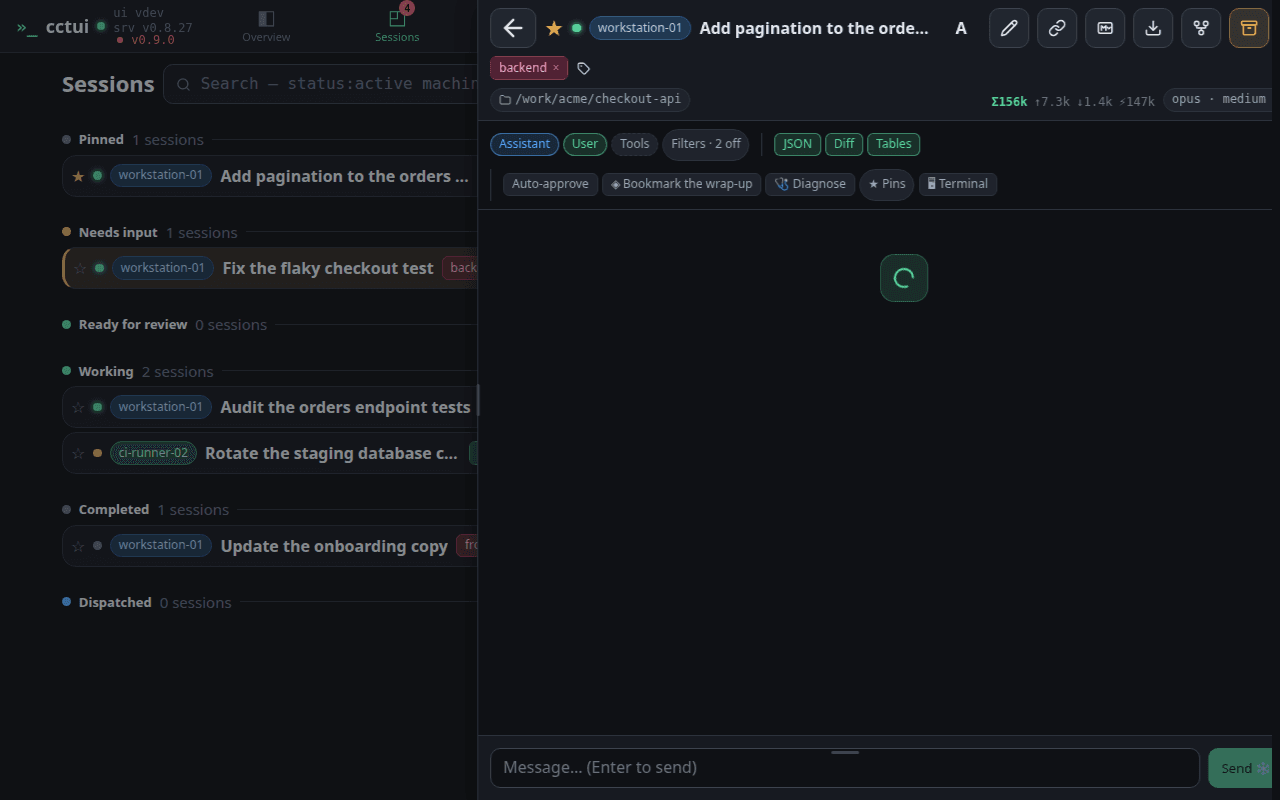
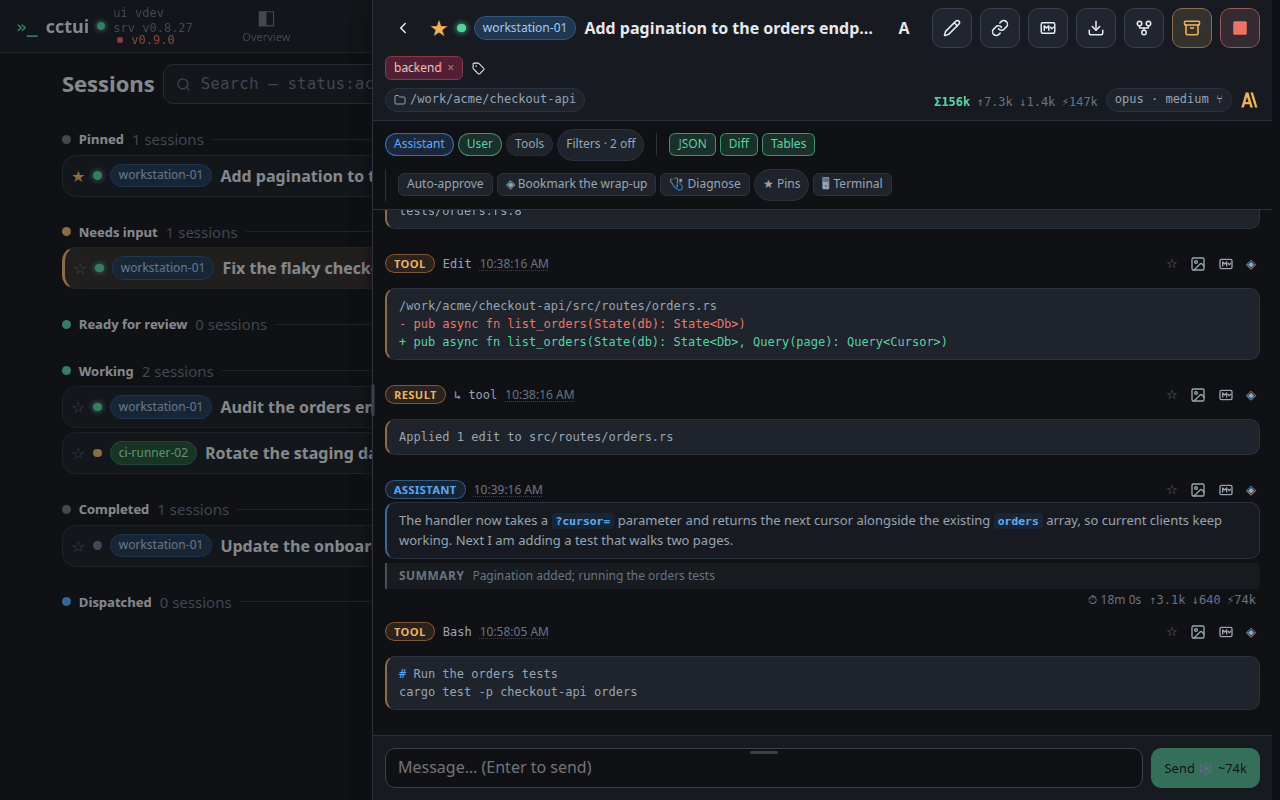
fix(drawer): the back control is a quiet chevron again, and the book stops shooting a half-open drawer
The header's back button rendered the kit's `back` glyph — a chevron plus a
horizontal shaft — at glyphSize 28 inside a chip box, making it the loudest
control in the bar. It is a plain `chevron-left` at the default glyph size
again, matching the neighbouring controls.

CCT-1015's clipping is not a layout bug: re-shooting the journey against
unmodified HEAD does not reproduce it. The drawer's panel is `right: 0` and
capped at 100vw, and at every viewport (1024/1280/1440) and drawer width
(default/800/700) the header and composer scrollWidth equals clientWidth, so
nothing overflows. The committed capture caught the panel mid `panel-slide-right`
(0.18s) with the transcript still loading. The journey's open step now waits on a
rendered line, which outlasts both, and the book is re-shot.

scripts/check-drawer-clipping.mjs asserts every interactive control in the drawer
header and composer sits inside the viewport across all nine configurations.

diff --git a/webui/src/lib/components/organisms/conversation/DrawerHeader.back.test.ts b/webui/src/lib/components/organisms/conversation/DrawerHeader.back.test.ts
@@ -1,0 +1,43 @@
+import { readFileSync } from 'node:fs';
+import { describe, expect, it } from 'vitest';
+
+const header = readFileSync(
+	'src/lib/components/organisms/conversation/DrawerHeader.svelte',
+	'utf8'
+);
+const registry = readFileSync(
+	'node_modules/@dorsk/tsumikit/dist/components/atoms/Icon.svelte',
+	'utf8'
+);
+
+const backButton = () => {
+	const i = header.indexOf('label={m.drawer_back()}');
+	expect(i).toBeGreaterThan(-1);
+	const start = header.lastIndexOf('<IconButton', i);
+	return header.slice(start, header.indexOf('/>', i) + 2);
+};
+
+const glyph = (name: string) => {
+	const m = registry.match(new RegExp(`(?:'${name}'|${name}):\\s*'([^']*)'`));
+	expect(m, `no "${name}" glyph in the kit registry`).toBeTruthy();
+	return (m as RegExpMatchArray)[1];
+};
+
+describe('drawer back control', () => {
+	it('uses the bare chevron, not the arrow', () => {
+		expect(backButton()).toContain('icon="chevron-left"');
+		expect(backButton()).not.toContain('icon="back"');
+	});
+
+	it('stays a quiet affordance — no chip box, no oversized glyph', () => {
+		const btn = backButton();
+		expect(btn).not.toContain('glyphSize');
+		expect(btn).not.toContain('chip');
+	});
+
+	it('the kit glyph it points at is a chevron with no arrow shaft', () => {
+		expect(glyph('back')).toContain('M19 12H5');
+		expect(glyph('chevron-left')).not.toContain('M19 12H5');
+		expect(glyph('chevron-left')).toBe('<path d="m15 18-6-6 6-6" />');
+	});
+});

diff --git a/webui/journeys/follow-session.journey.ts b/webui/journeys/follow-session.journey.ts
@@ -18,7 +18,13 @@ export default defineJourney({
 				title: 'Open a session',
 				body: 'Open your running session by its name. The conversation opens beside the list on a desktop, over it on a phone.'
 			},
-			expect: [{ visible: 'conversation' }, { visible: 'composer' }],
+			// A rendered line, not just the shell: the capture must outlast the
+			// slide-in and the history fetch.
+			expect: [
+				{ visible: 'conversation' },
+				{ visible: 'conversation/line[assistant]' },
+				{ visible: 'composer' }
+			],
 			capture: 'drawer'
 		},
 		{

diff --git a/webui/src/lib/components/organisms/conversation/DrawerHeader.svelte b/webui/src/lib/components/organisms/conversation/DrawerHeader.svelte
@@ -185,7 +185,7 @@
 
 <div class="dhead">
 	<Toolbar collapseBelow="640px" items={overflowItems} overflowLabel={m.drawer_more_actions()}>
-		<IconButton chip variant="default" glyphSize={28} icon="back" label={m.drawer_back()} onclick={onclose} />
+		<IconButton icon="chevron-left" label={m.drawer_back()} onclick={onclose} />
 		{#if onTogglePin}
 			<span
 				class="star"
